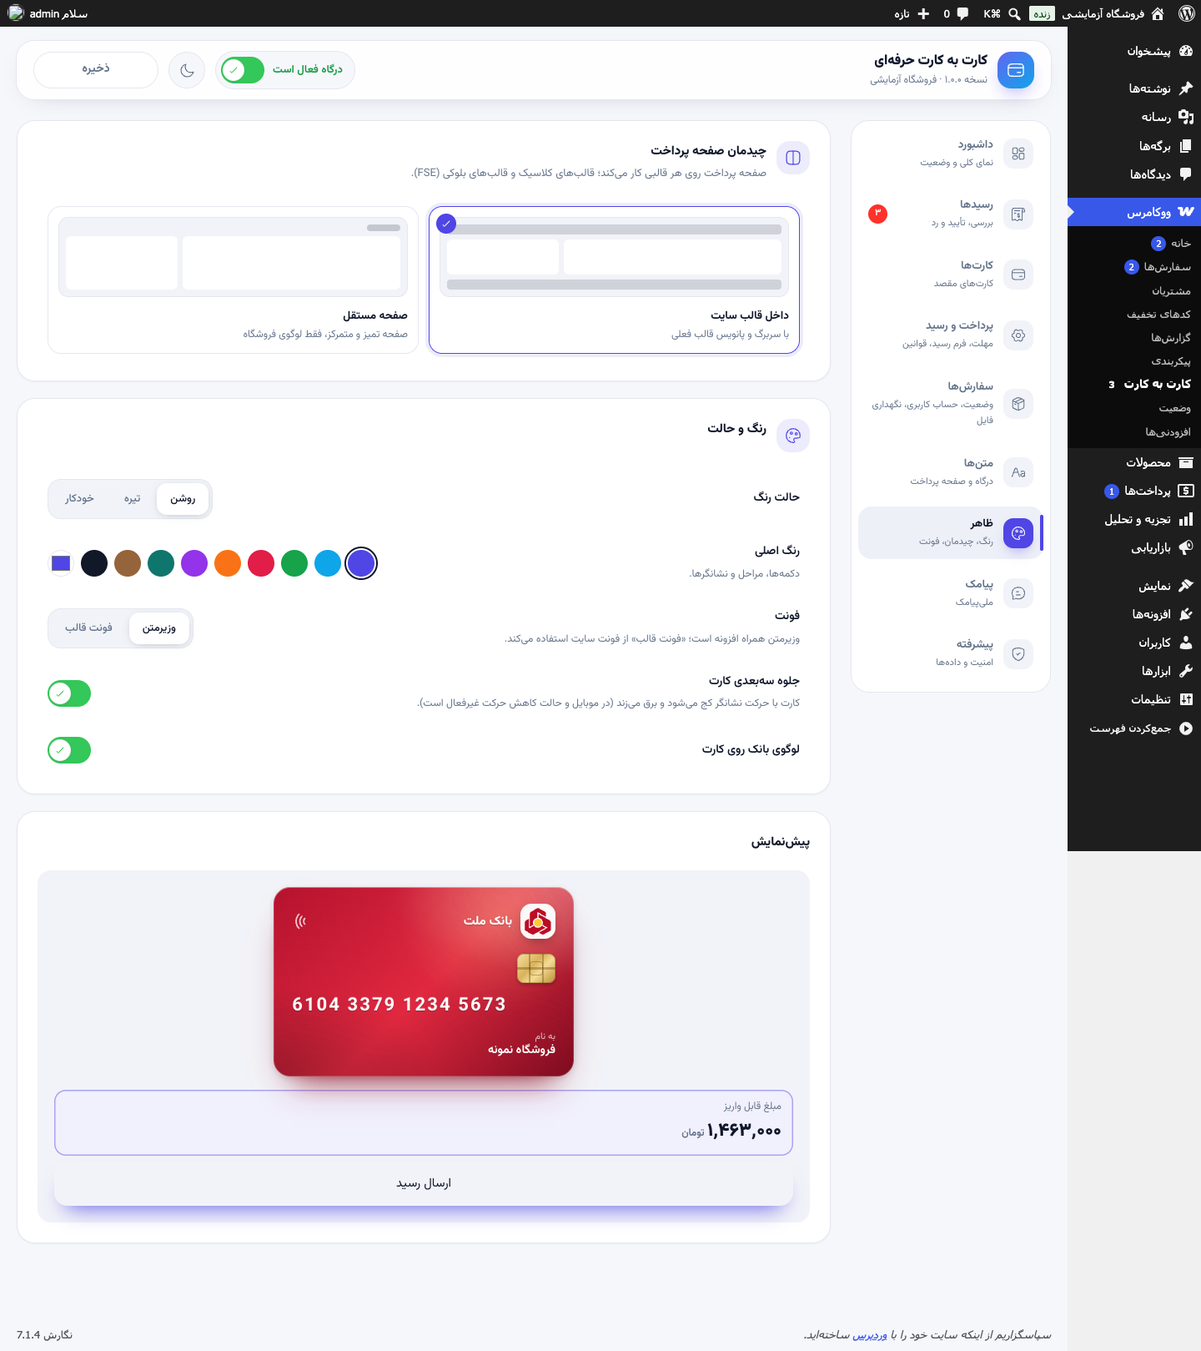
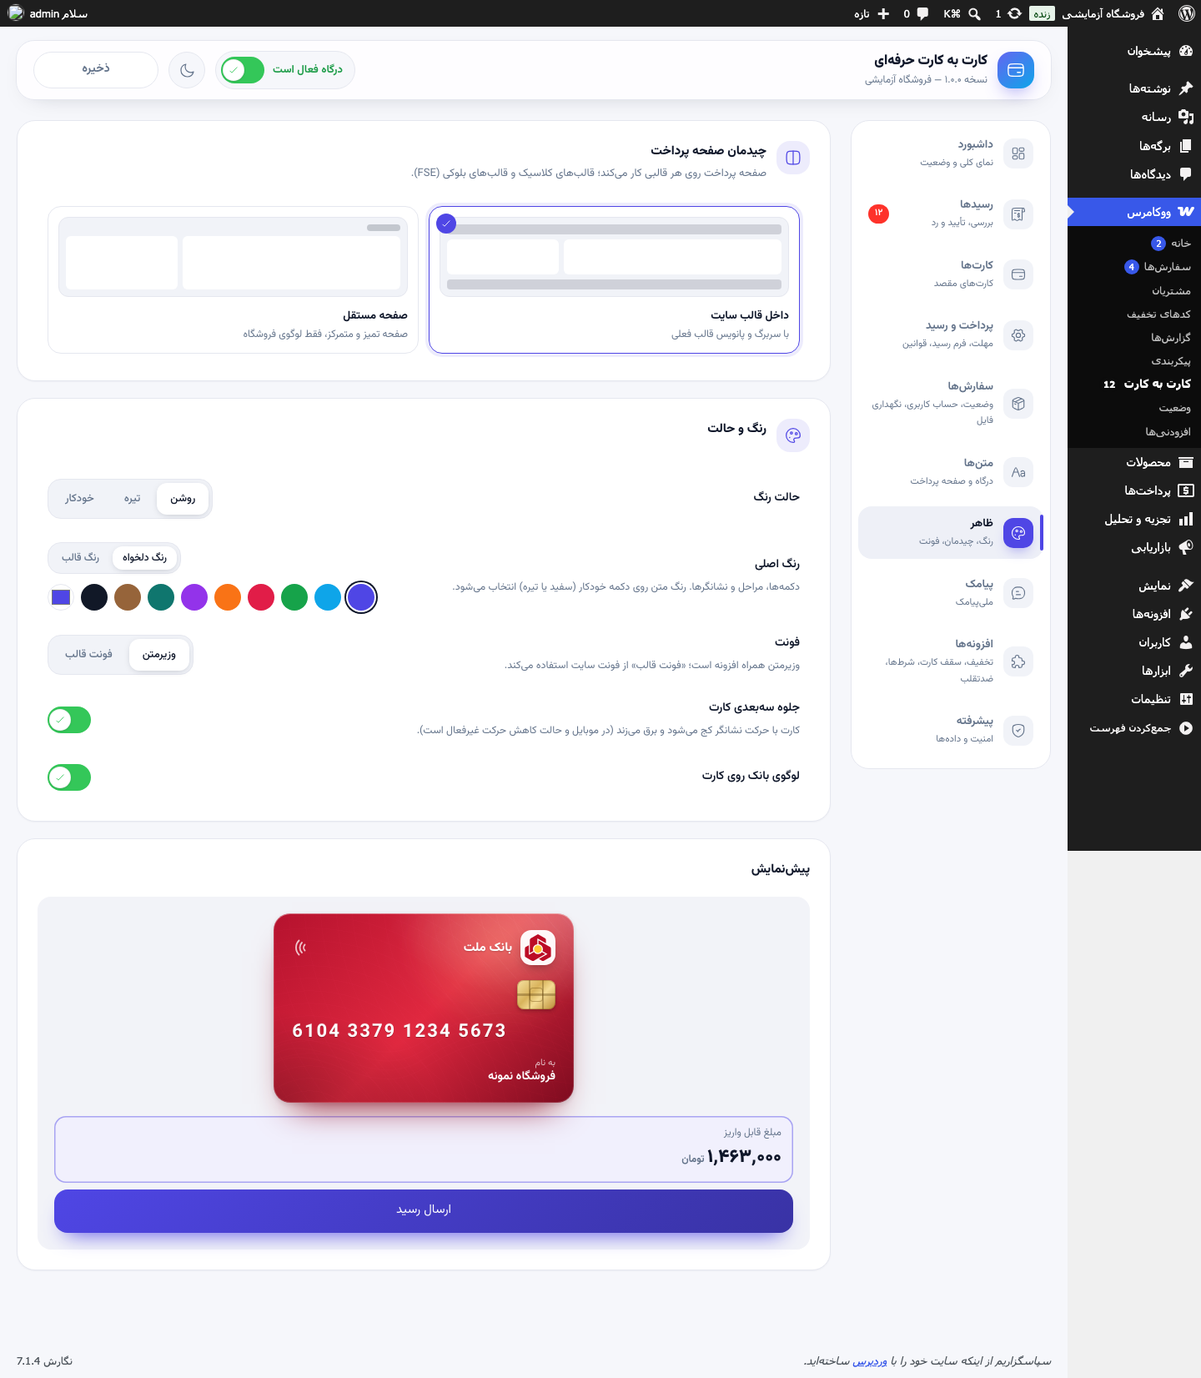
README: modules, customer return paths, security and tests; new screenshots
- Optional modules section (fee, card limits, display rules, duplicate and
  suspicious receipts) and the new panel screenshots (modules, receipts).
- How a customer who closed the page gets back to the receipt form (SMS,
  e-mail, My Account, thank-you page), the rial amount and photo shrinking.
- Security notes for the rate limits and the order-bound form token; new hooks
  (ctc_modules, ctc_receipt_check, ctc_is_available, ctc_eligible_cards, …).
- Test counts: integration 211, modules 78, HTTP 26, unit 11, browser 12.
- e2e: screenshot of the modules tab; hide Storefront's fixed bottom bar in
  the full-page mobile shot.

diff --git a/README.md b/README.md
@@ -2,14 +2,14 @@
 
 # 💳 کارت به کارت حرفهای ووکامرس
 
-**درگاه کارت به کارت کامل برای ووکامرس — با کارت همرنگ و همشکل بانک، صفحه پرداخت اختصاصی، آپلود و بررسی رسید، مهلت و لغو خودکار، پیامک ملیپیامک و یک پنل تنظیمات مدرن.**
+**درگاه کارت به کارت کامل برای ووکامرس — با کارت همرنگ و همشکل بانک، صفحه پرداخت اختصاصی، آپلود و بررسی رسید، مهلت و لغو خودکار، پیامک ملیپیامک، افزونههای اختیاری (تخفیف، سقف کارت، شرط نمایش، تشخیص رسید تکراری) و یک پنل تنظیمات مدرن.**
 
 روی **هر قالبی** کار میکند: قالبهای کلاسیک، قالبهای بلوکی (FSE) و حالت صفحه مستقل.
 
 ![WordPress](https://img.shields.io/badge/WordPress-6.4%2B-21759b?logo=wordpress&logoColor=white)
 ![WooCommerce](https://img.shields.io/badge/WooCommerce-8%2B%20%7C%20HPOS%20%7C%20Blocks-7f54b3?logo=woocommerce&logoColor=white)
 ![PHP](https://img.shields.io/badge/PHP-8.0%2B-777bb4?logo=php&logoColor=white)
-![Tests](https://img.shields.io/badge/tests-200%2B%20passing-34c759)
+![Tests](https://img.shields.io/badge/tests-330%2B%20passing-34c759)
 ![License](https://img.shields.io/badge/license-GPL--2.0-blue)
 
 <img src="docs/screenshots/banks-gallery.png" alt="کارتهای بانکی با رنگ و لوگوی هر بانک" width="100%">
@@ -25,12 +25,13 @@
 | | |
 |---|---|
 | 🎨 **کارت همرنگ بانک** | شماره کارت روی یک کارت بانکی واقعی نمایش داده میشود: رنگ، گرادیان و لوگوی **۳۷ بانک و موسسه ایرانی**، تراشه طلایی، الگوی گیلوشه و جلوه سهبعدی با حرکت نشانگر. بانک از روی BIN شماره کارت یا کد شبا **خودکار** تشخیص داده میشود. |
-| 🔗 **صفحه پرداخت اختصاصی** | بعد از ثبت سفارش، مشتری به یک صفحه خصوصی (`/card-pay/…`) میرود: کارت، مبلغ به عدد و حروف، مهلت با شمارش معکوس، دکمههای کپی و فرم ارسال رسید. لینک با HMAC امضا شده و قابل حدس نیست؛ بدون ورود هم کار میکند. |
-| 🧾 **رسید و بررسی** | آپلود عکس یا PDF با پیشنمایش، شماره پیگیری، ۴ رقم آخر کارت و **فیلدهای دلخواه**. مدیر در پنل یا صفحه سفارش رسید را میبیند و با یک کلیک **تأیید** یا با دلیل **رد** میکند. |
+| 🔗 **صفحه پرداخت اختصاصی** | بعد از ثبت سفارش، مشتری به یک صفحه خصوصی (`/card-pay/…`) میرود: کارت، مبلغ به عدد و حروف (و **به ریال** در فروشگاههای تومانی، چون بیشتر اپهای بانکی ریال میخواهند)، مهلت با شمارش معکوس («۲ ساعت و ۱۰ دقیقه مانده»)، دکمههای کپی و فرم ارسال رسید. لینک با HMAC امضا شده و قابل حدس نیست، **بدون ورود** کار میکند و تا پایان عمر سفارش معتبر است. |
+| 🧾 **رسید و بررسی** | آپلود عکس یا PDF با پیشنمایش، شماره پیگیری، ۴ رقم آخر کارت و **فیلدهای دلخواه**. عکسهای بزرگ گوشی (و HEIC آیفون) پیش از آپلود در خود مرورگر **کوچک و به JPEG تبدیل** میشوند، پس روی هاستی با سقف آپلود ۲ مگابایت هم رد نمیشوند. مدیر در پنل یا صفحه سفارش رسید را میبیند و با یک کلیک **تأیید** یا با دلیل **رد** میکند. |
 | ⏱ **مهلت و لغو خودکار** | مهلت ارسال رسید، پیامک یادآوری پیش از پایان مهلت و لغو خودکار سفارش با برگشت موجودی انبار. |
 | 🛡 **حالت سختگیرانه** | تا رسید تأیید نشده، سفارش حتی با تغییر دستی وضعیت یا عملیات گروهی «در حال انجام» نمیشود. |
 | 📱 **پیامک ملیپیامک** | دو روش قابل انتخاب: **پترن** (خط خدماتی اشتراکی) و **خط اختصاصی/اشتراکی** (متن کامل) + **آزمایش اتصال** با نمایش اعتبار و ارسال پیامک آزمایشی. |
-| 🧑💼 **حساب کاربری ووکامرس** | دکمه «ارسال رسید» در لیست سفارشها، کارت و تاریخچه رسیدها در جزئیات سفارش، لغو توسط مشتری، یادداشت برای مشتری. |
+| 🧑💼 **حساب کاربری ووکامرس** | دکمه «ارسال رسید» در لیست سفارشها (بهجای دکمه «پرداخت» ووکامرس)، کارت و تاریخچه رسیدها در جزئیات سفارش، لغو توسط مشتری، یادداشت برای مشتری. مشتریای که صفحه را بسته از حساب کاربری، پیامک یا ایمیل با یک کلیک به فرم برمیگردد. |
+| 🧩 **افزونههای اختیاری** | تخفیف یا کارمزد کارت به کارت، سقف دریافت روزانه و ماهانه هر کارت، شرط نمایش درگاه و کارت، و تشخیص رسید تکراری و مشکوک. هر کدام جدا روشن میشود و افزونه خاموش هیچ اثری روی سایت ندارد. |
 | 🗂 **نگهداری فایل رسید** | حذف خودکار فایلها بعد از N روز برای رسیدهای تأییدشده، ردشده و سفارشهای لغوشده؛ حذف همراه با حذف سفارش. |
 | ⚙ **پنل تنظیمات مدرن** | React + Tailwind با کامپوننتهای متحرک [طرحک](https://tarhak.ir)، پیشنمایش زنده کارت، حالت تیره و ذخیره با `Ctrl/⌘ + S`. |
 
@@ -62,6 +63,10 @@
 |---|---|
 | ![پترن](docs/screenshots/panel-sms-pattern.png) | ![خط](docs/screenshots/panel-sms-line.png) |
 
+| افزونههای اختیاری | لیست رسیدها |
+|---|---|
+| ![افزونهها](docs/screenshots/panel-modules.png) | ![رسیدها](docs/screenshots/panel-receipts.png) |
+
 | پرداخت، فرم رسید و قوانین | ظاهر صفحه پرداخت | جعبه رسید در صفحه سفارش |
 |---|---|---|
 | ![پرداخت](docs/screenshots/panel-payment.png) | ![ظاهر](docs/screenshots/panel-appearance.png) | ![جعبه سفارش](docs/screenshots/order-box.png) |
@@ -92,6 +97,28 @@
 ```
 
 هر مرحله میتواند پیامک و ایمیل داشته باشد. دو وضعیت سفارشی `wc-ctc-receipt` و `wc-ctc-review` در لیست سفارشها با رنگ اختصاصی نمایش داده میشوند.
+
+### مشتری صفحه را بست؛ چطور رسید را بفرستد؟
+
+همه این راهها به همان لینک خصوصی میرسند و هیچکدام ورود به حساب نمیخواهند. اطلاعات سفارش در چکاوت گرفته شده، پس مشتری فقط عکس رسید را میفرستد:
+
+- **پیامک** «ثبت سفارش»، «یادآوری» و «رسید رد شد» با لینک کامل (`{link}`) یا کلید آن (`{key}`)؛
+- دکمه **«ارسال رسید واریز»** در ایمیل سفارش؛
+- **حساب کاربری › سفارشها** › «ارسال رسید»، یا جعبه کارت در جزئیات سفارش؛
+- جعبه کارت در **صفحه تشکر**.
+
+بالای صفحه پرداخت دکمه **«واریز کردهام؛ ارسال رسید»** مستقیم به فرم میرود. بعد از رد شدن رسید، همان لینک دلیل رد و یک فرم تازه نشان میدهد.
+
+## 🧩 افزونههای اختیاری
+
+در تب **افزونهها** هر کدام را که لازم دارید روشن کنید:
+
+| افزونه | کار |
+|---|---|
+| **تخفیف یا کارمزد** | تخفیف (مثلاً «۲٪ تخفیف با کارت به کارت») یا کارمزد درصدی یا ثابت، با سقف، حداقل و گرد کردن. بهصورت یک ردیف جدا در چکاوت کلاسیک و بلوکی و در سفارش ثبت میشود و اگر مشتری روش پرداخت را عوض کند حذف میشود. |
+| **سقف دریافت هر کارت** | سقف روزانه و ماهانه (شمسی) برای هر کارت مقصد. کارتی که با این سفارش از سقف رد شود داده نمیشود و سفارش به کارت بعدی میرود. اگر کارتی نماند، کارت به کارت پنهان میشود. مبلغ سفارش لغوشده یا مسترد شده آزاد میشود. |
+| **شرط نمایش** | نمایش درگاه فقط برای دستههای محصول، روشهای ارسال یا نقشهای کاربری خاص؛ و برای هر کارت نقش و بازه مبلغ (مثلاً کارت جدا برای عمدهفروشها یا سفارشهای بزرگ). |
+| **رسید تکراری و مشکوک** | هر رسید با رسیدهای همه سفارشهای دیگر مقایسه میشود: همان فایل، همان تصویر (حتی دوباره ذخیره یا کوچکشده) و شماره پیگیری تکراری. رسید مشکوک در پنل و صفحه سفارش برچسب «⚠ مشکوک» میگیرد یا در حالت سخت اصلاً پذیرفته نمیشود. اثر انگشت رسیدها بعد از حذف فایل هم میماند. |
 
 ## 📱 راهاندازی پیامک ملیپیامک
 
@@ -129,19 +156,24 @@ https://your-shop.ir/card-pay/{3}
 | هوک | نوع | کاربرد |
 |---|---|---|
 | `ctc_page_args` | فیلتر | تغییر دادههای صفحه پرداخت |
+| `ctc_modules` | فیلتر | افزودن افزونه (ماژول) دلخواه به تب «افزونهها» |
+| `ctc_receipt_check` | فیلتر | بررسی رسید پیش از ثبت: برگرداندن `WP_Error` آن را رد میکند |
+| `ctc_is_available` · `ctc_eligible_cards` | فیلتر | نمایش درگاه و انتخاب کارت مقصد برای هر سفارش |
+| `ctc_gateway_title` · `ctc_gateway_icon` | فیلتر | عنوان و آیکن درگاه در چکاوت |
 | `ctc_box_args` | فیلتر | دادههای جعبه صفحه تشکر / حساب کاربری |
 | `ctc_sms_send` | فیلتر | ارسال پیامک با سرویس دلخواه (بهجای ملیپیامک) |
 | `ctc_sms_events` · `ctc_sms_tokens` · `ctc_sms_queue` | فیلتر | افزودن رویداد، متغیر یا جلوگیری از ارسال |
 | `ctc_receipt_uploaded` · `ctc_receipt_approved` · `ctc_receipt_rejected` · `ctc_reminded` | اکشن | واکنش به مراحل رسید |
+| `ctc_process_payment` · `ctc_cards_assigned` · `ctc_sms_sent` | اکشن | ثبت سفارش، دادن کارت به سفارش، بعد از هر ارسال پیامک |
 | `ctc_settings_saved` | اکشن | بعد از ذخیره تنظیمات |
 
 ### REST API (`/wp-json/ctc/v1/`)
 `settings` · `receipts` · `orders/<id>/approve|reject` · `stats` · `sms/test` · `sms/log` — همه با احراز هویت مدیر فروشگاه و nonce.
 
 ### امنیت
-- لینک پرداخت = شناسه سفارش + HMAC کلید سفارش؛ تلاشهای اشتباه محدود میشوند.
+- لینک پرداخت = شناسه سفارش + HMAC کلید سفارش. فقط **کلیدهای اشتباه** شمرده میشوند (۲۰ بار برای هر سفارش و IP). باز کردن لینک درست هیچوقت محدود نمیشود، چون مشتریهای پشت NAT اپراتور موبایل یا CDN یک IP مشترک دارند.
 - رسیدها خارج از کتابخانه رسانه، با نام تصادفی ۲۴ کاراکتری، با `.htaccess` مسدود و فقط برای `edit_shop_orders` استریم میشوند (با CSP و `nosniff`).
-- بررسی نوع واقعی فایل، حجم، nonce، فیلد تله ضدربات و سقف ۵ ارسال در ساعت.
+- بررسی نوع واقعی فایل، حجم (کمترینِ سقف پنل و سقف سرور)، توکن فرم وابسته به سفارش (با باز ماندن صفحه منقضی نمیشود)، فیلد تله ضدربات و سقف ۱۰ تلاش آپلود در ساعت برای هر IP و سفارش (خطای فرم شمرده نمیشود).
 - صفحه پرداخت `no-cache` و `noindex` است و برای WP Rocket، LiteSpeed و W3TC مستثنا میشود.
 
 ## 🧪 تستها
@@ -149,7 +181,8 @@ https://your-shop.ir/card-pay/{3}
 | مجموعه | تعداد | چه چیزی |
 |---|---|---|
 | واحد (PHPUnit) | ۱۱ تست / ۳۶۴ assertion | لوهن، شبا (mod-97)، تشخیص بانک، تاریخ شمسی، عدد به حروف، موبایل |
-| یکپارچه (داخل وردپرس واقعی) | ۱۵۰ | جریان کامل سفارش، موجودی، مهلت، تأیید/رد، تنظیمات، REST و دسترسیها، پیامک پترن و خط با پاسخهای شبیهسازیشده، ایمیلها، فیلدهای دلخواه، نگهداری فایل |
+| یکپارچه (داخل وردپرس واقعی) | ۲۱۱ | جریان کامل سفارش، موجودی، مهلت، تأیید/رد، تنظیمات، REST و دسترسیها، پیامک پترن و خط با پاسخهای شبیهسازیشده، ایمیلها، فیلدهای دلخواه، نگهداری فایل، لینک بدون ورود و محدودیتها، بازگشت مشتری از حساب کاربری و پیامک، سقف حجم آپلود، مبلغ به ریال |
+| افزونهها (داخل وردپرس واقعی) | ۷۸ | تخفیف و کارمزد، سقف کارت، شرطها، رسید تکراری و مشکوک |
 | HTTP | ۲۶ | صفحه پرداخت، هدرها، آپلود واقعی، فایل جعلی، nonce، تله ضدربات، مسدود بودن دسترسی مستقیم به رسید |
 | مرورگر (Playwright) | ۱۲ | خرید از چکاوت بلوکی، کپی، موبایل بدون اسکرول افقی، آپلود، تأیید از پنل |
 
@@ -159,6 +192,7 @@ npm run env                         # سایت آزمایشی Docker روی loca
 bin/dev.sh wp eval-file wp-content/plugins/card-to-card/dev/seed.php
 composer test && composer lint && composer analyse
 bin/dev.sh wp eval-file wp-content/plugins/card-to-card/tests/integration/run.php
+bin/dev.sh wp eval-file wp-content/plugins/card-to-card/tests/integration/modules.php
 bash tests/integration/http.sh
 node tests/e2e/flow.mjs
 npm run build && bash bin/zip.sh    # dist/card-to-card-<version>.zip
@@ -169,11 +203,13 @@ npm run build && bash bin/zip.sh    # dist/card-to-card-<version>.zip
 ```
 card-to-card.php        ← فایل اصلی
 includes/               ← درگاه، سفارشها، رسیدها، صفحه پرداخت، پیامک، REST، پنل
+includes/Modules/       ← افزونههای اختیاری (تخفیف، سقف کارت، شرطها، ضدتقلب)
 templates/              ← قالبهای قابل بازنویسی
 assets/                 ← CSS/JS صفحه پرداخت، لوگوی بانکها، فونت، پنل ساختهشده
 admin-src/              ← سورس React پنل تنظیمات (Vite + Tailwind 4 + طرحک)
 tests/                  ← واحد، یکپارچه، HTTP، مرورگر
 dev/                    ← سایت آزمایشی Docker و داده نمونه
+CLAUDE.md · .claude/    ← راهنما، قوانین و اسکیلهای پروژه برای Claude Code (داخل زیپ افزونه نمیروند)
 ```
 
 ## 🙏 قدردانی
